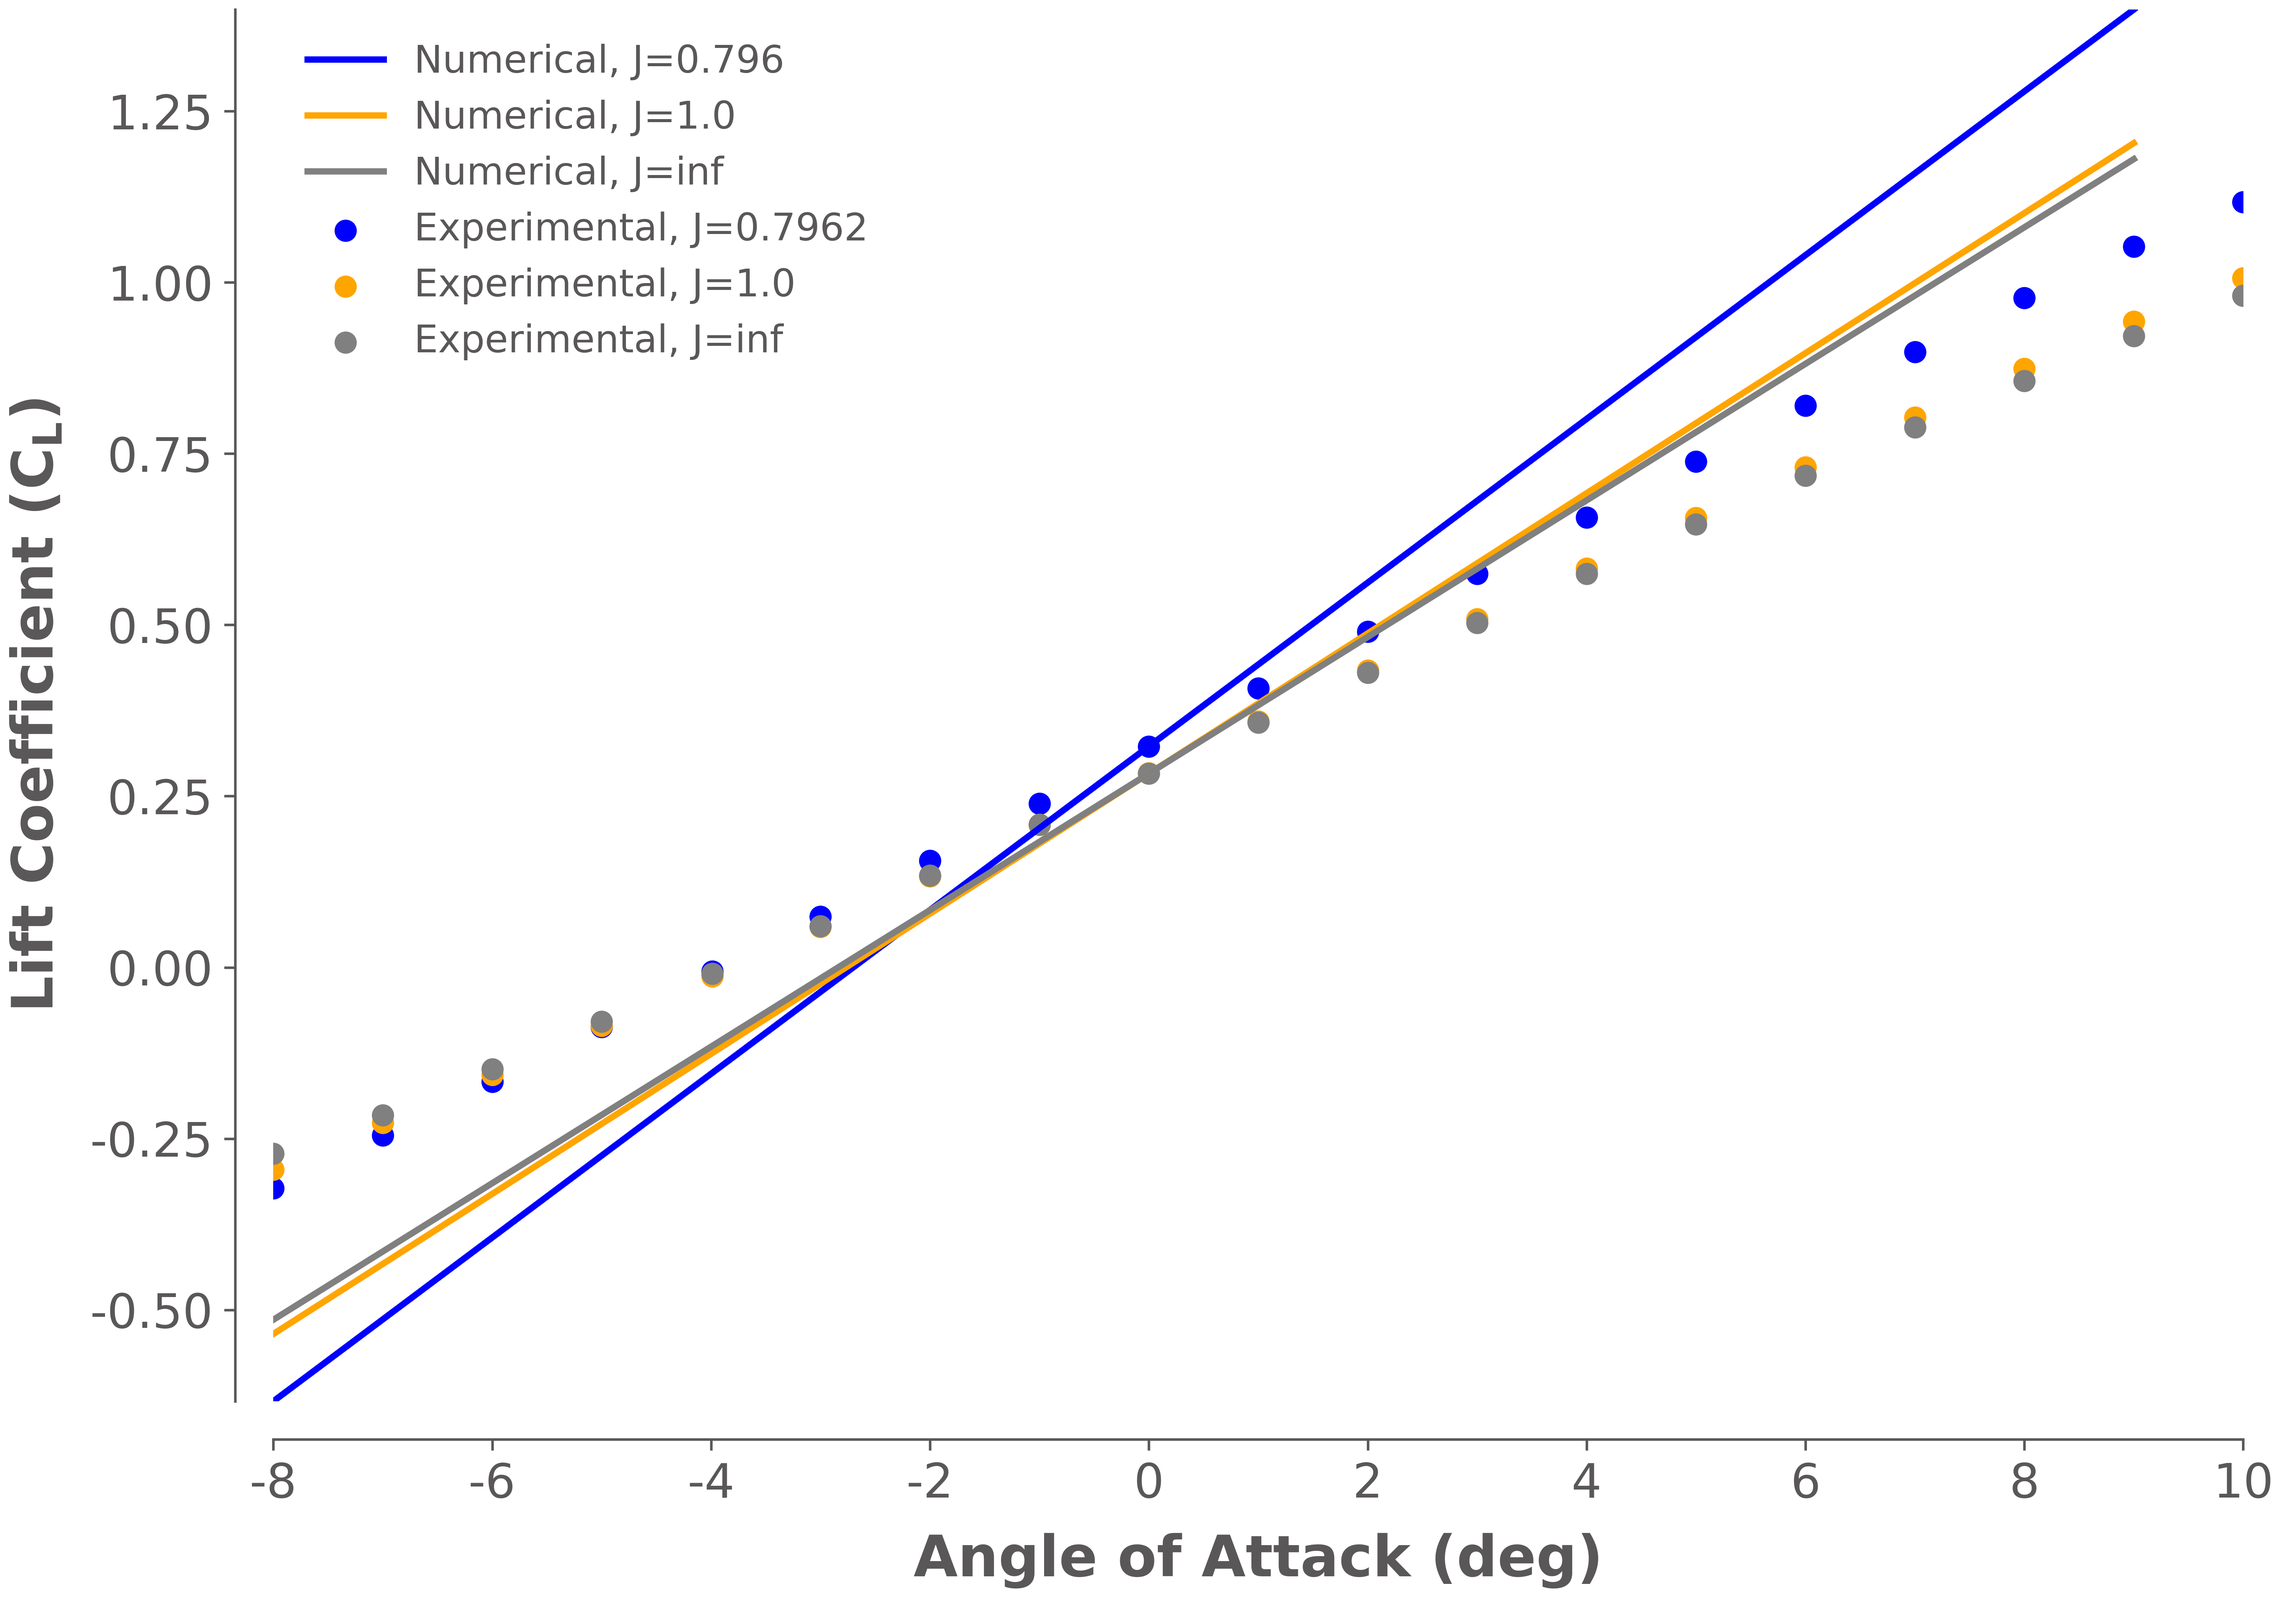
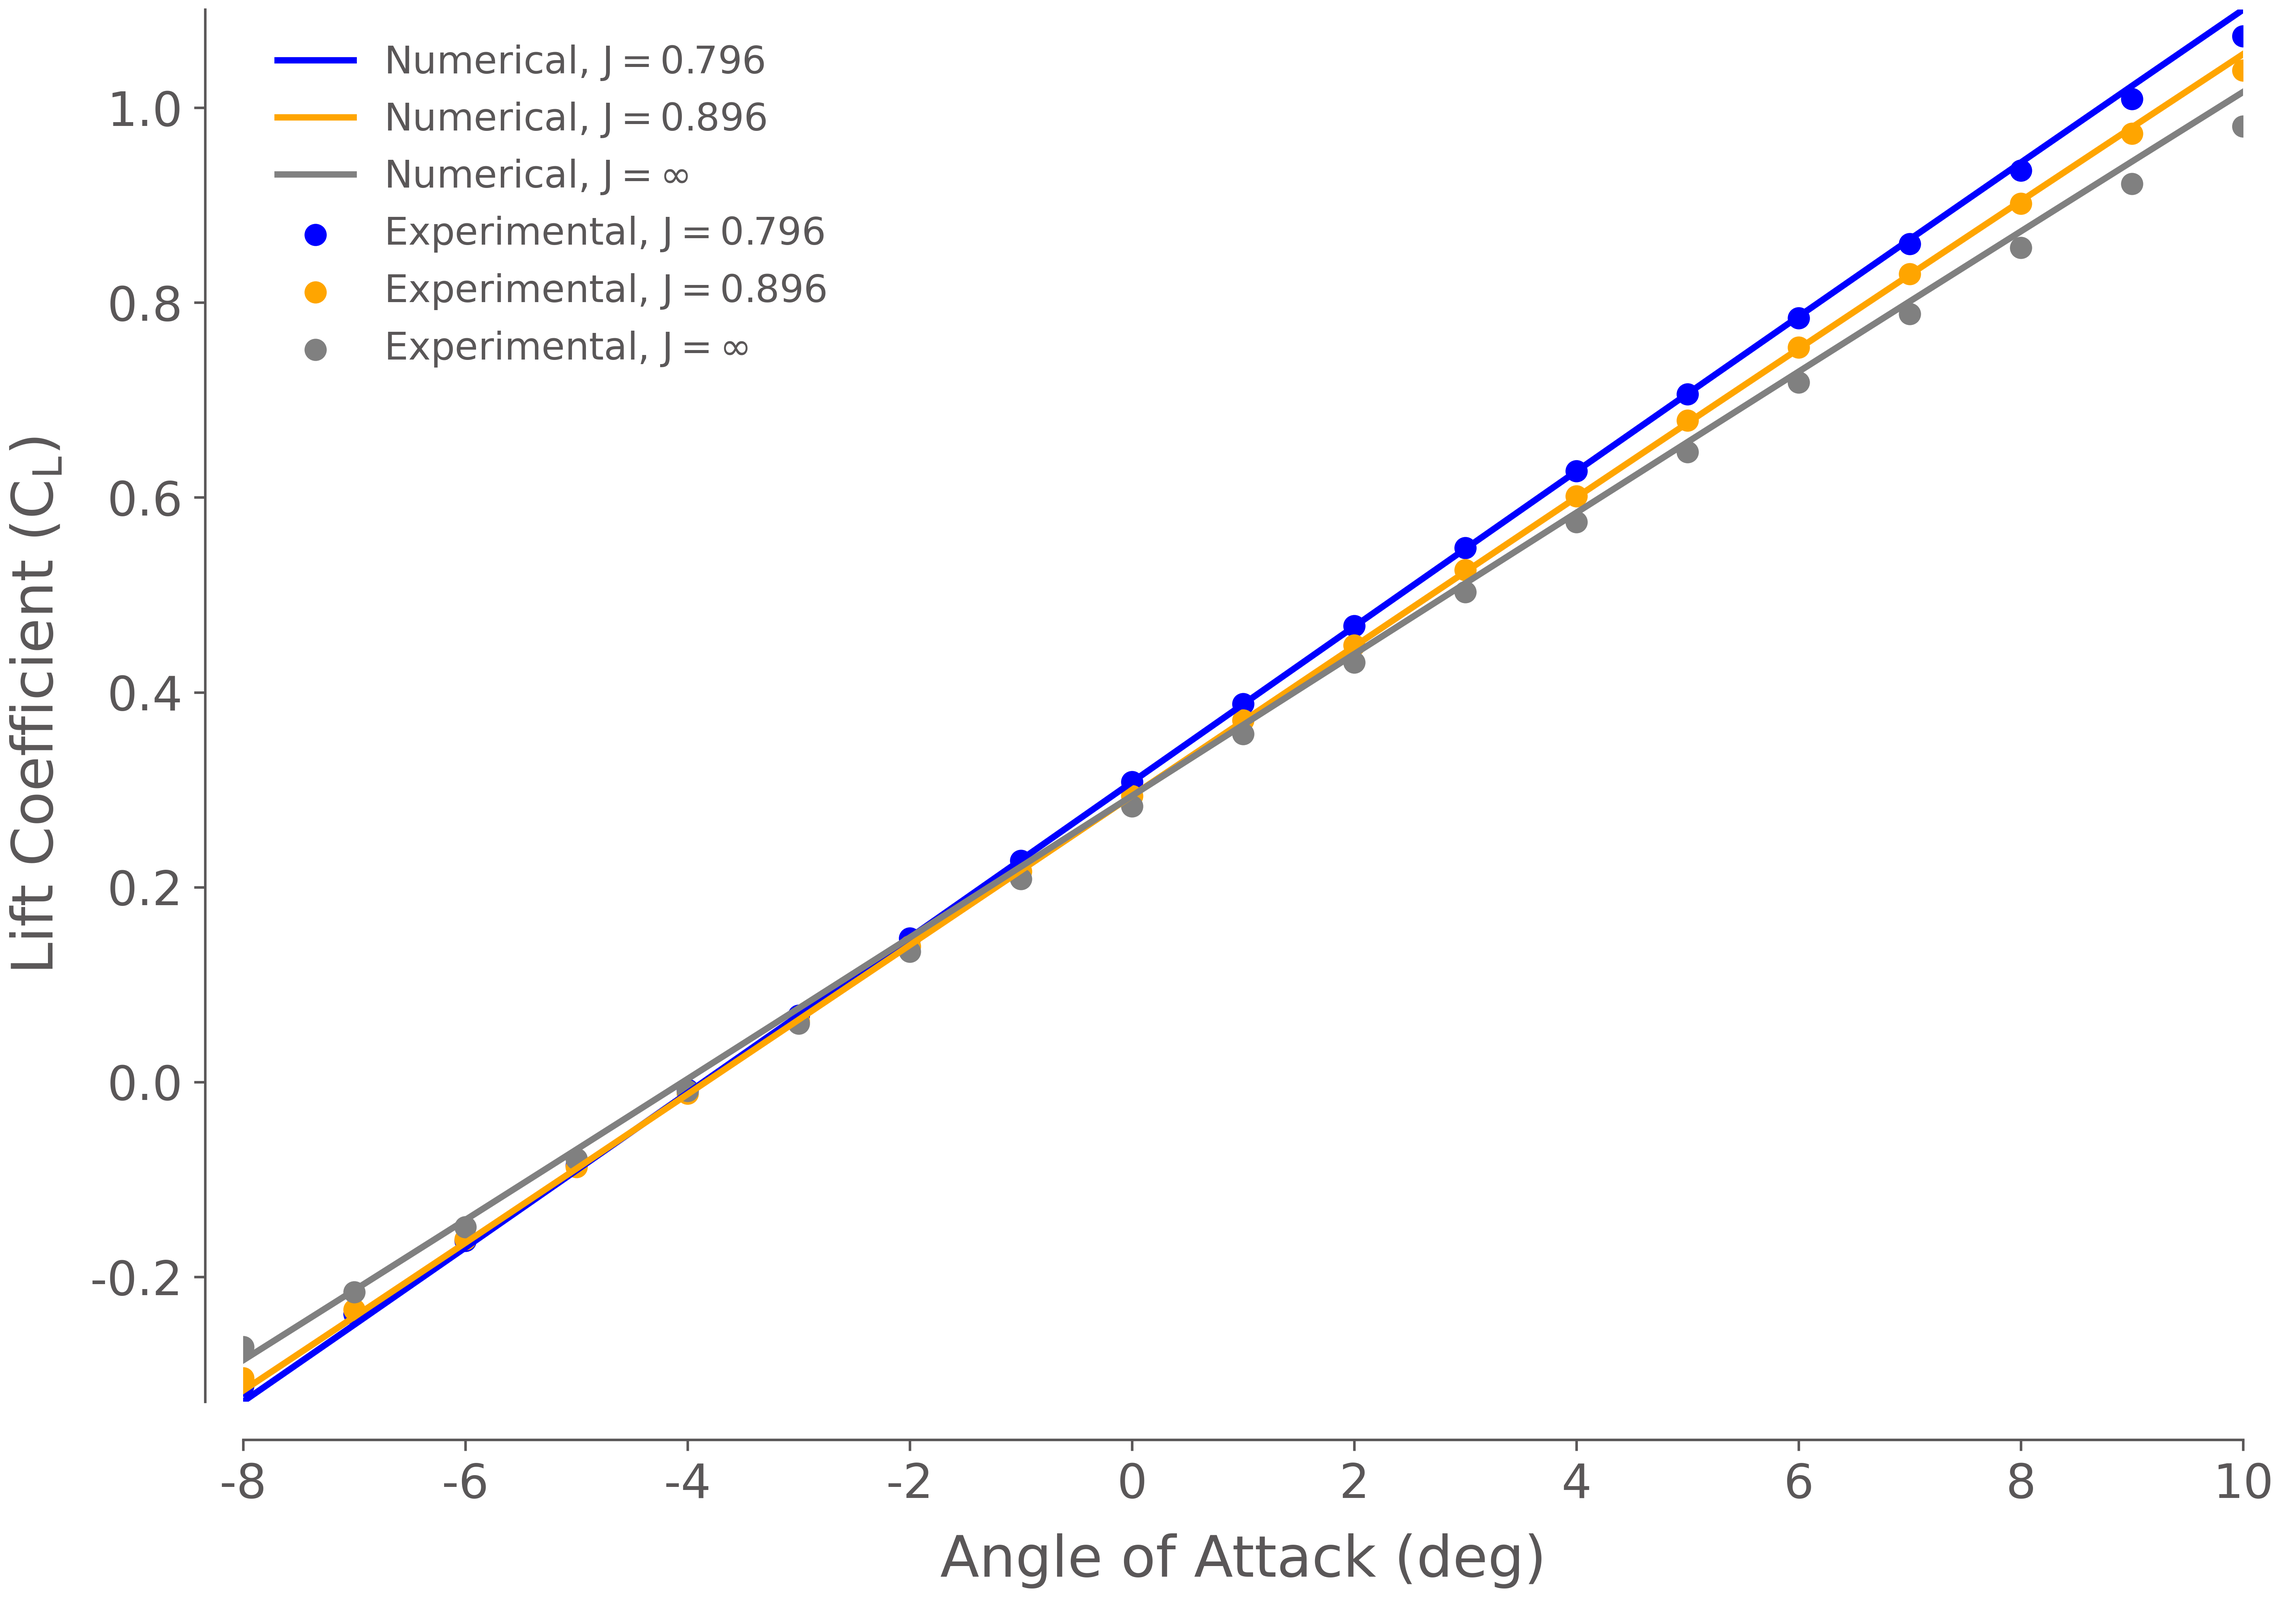
VALIDATION WORKING

diff --git a/examples/analysis/PROWIM_wingprop_validation.py b/examples/analysis/PROWIM_wingprop_validation.py
@@ -25,7 +25,7 @@ with open(os.path.join(BASE_DIR, 'data', 'PROWIM.json'), 'r') as file:
 prop_radius = 0.1185
 ref_point = data['ref_point']
 span = data['span']
-twist = np.subtract(data['twist'], 1.2)
+twist = data['twist']
 chord = data['chord']
 
 alpha_0 = data['alpha_0']
@@ -40,17 +40,10 @@ wingspan = 0.73*2.*0.952
 spanwise_discretisation_propeller_BEM = len(span)
 
 
-parameters = ParamInfo(vinf=40.,
-                       wing_aoa=0.,
-                       mach_number=0.2,
-                       reynolds_number=640_000,
-                       speed_of_sound=333.4,
-                       air_density=1.2087)
-
 prop1 = PropInfo(label='Prop1',
                  prop_location=-0.332,
                  nr_blades=4,
-                 rot_rate=(parameters.vinf/(0.796*2.*prop_radius)) * 2.*np.pi, # in rad/s,
+                 rot_rate=300.,
                  chord=np.array(chord, order='F'),
                  twist=np.array(twist, order='F'),
                  span=np.array(span, order='F'),
@@ -66,7 +59,7 @@ prop1 = PropInfo(label='Prop1',
 prop2 = PropInfo(label='Prop1',
                  prop_location=0.332,
                  nr_blades=4,
-                 rot_rate=(parameters.vinf/(0.796*2.*prop_radius)) * 2.*np.pi, # in rad/s,
+                 rot_rate=300.,
                  chord=np.array(chord, order='F'),
                  twist=np.array(twist, order='F'),
                  span=np.array(span, order='F'),
@@ -78,6 +71,13 @@ prop2 = PropInfo(label='Prop1',
                            for index in range(spanwise_discretisation_propeller_BEM+1)],
                  ref_point=ref_point
                  )
+
+parameters = ParamInfo(vinf=40.,
+                       wing_aoa=0.,
+                       mach_number=0.2,
+                       reynolds_number=640_000,
+                       speed_of_sound=333.4,
+                       air_density=1.2087)
 
 
 wing = WingInfo(label='PROWIM_wing',
@@ -102,7 +102,7 @@ wingpropinfo = WingPropInfo(spanwise_discretisation_wing=60,
                             )
 
 
-class PROWIMValidation(om.Group):
+class PROWIMAnalysis(om.Group):
     def initialize(self):
         self.options.declare('WingPropInfo', default=WingPropInfo)
 
@@ -118,9 +118,9 @@ class PROWIMValidation(om.Group):
 if __name__ == '__main__':
     # === Generate numerical data ===
     CL_numerical = []
-    J = np.array([0.796, 1.0, float('nan')])
+    J = np.array([0.796, 0.8960, float('nan')])
     rot_rate = (wingpropinfo.parameters.vinf/(J*2.*prop_radius)) * 2.*np.pi # in rad/s
-    angles = np.arange(-8, 10+1, 1)
+    angles = np.arange(-8, 11, 1)
     
     prob = om.Problem()
 
@@ -136,7 +136,12 @@ if __name__ == '__main__':
         elif J[index_rotational]==0.796:
             wingpropinfo.NO_CORRECTION=False
             wingpropinfo.NO_PROPELLER=False
-            wingpropinfo.wing.CL0 = 0.3227
+            wingpropinfo.wing.CL0 = 0.3079
+            
+        elif J[index_rotational]==0.8960:
+            wingpropinfo.NO_CORRECTION=False
+            wingpropinfo.NO_PROPELLER=False
+            wingpropinfo.wing.CL0 = 0.2938
             
         else:
             wingpropinfo.NO_CORRECTION=False
@@ -147,7 +152,7 @@ if __name__ == '__main__':
             print(f'Angle of attack: {angle: ^10}')
             wingpropinfo.parameters.wing_aoa = angle
             
-            prob.model = PROWIMValidation(WingPropInfo=wingpropinfo)
+            prob.model = PROWIMAnalysis(WingPropInfo=wingpropinfo)
             prob.setup()
             prob.run_model()
 
@@ -169,7 +174,7 @@ if __name__ == '__main__':
     J_inf = validation_data['J'][index1+1]
     
     # Validation data for J=1
-    n=1
+    n=2
     index1 = n*19
     index2 = (n+1)*19
     aoa = validation_data['AoA'][index1:index2]
@@ -178,7 +183,7 @@ if __name__ == '__main__':
     J_1 = validation_data['J'][index1+1]
     
     # Validation data for J=0.796
-    n=4
+    n=3
     index1 = n*19
     index2 = (n+1)*19
     aoa = validation_data['AoA'][index1:index2]
@@ -190,17 +195,17 @@ if __name__ == '__main__':
     plt.style.use(niceplots.get_style())
     _, ax = plt.subplots(figsize=(10, 7))
     
-    ax.plot(angles, CL_numerical[0], label='Numerical, J=0.796', color='b')
-    ax.plot(angles, CL_numerical[1], label=f'Numerical, J=1.0', color='orange')
-    ax.plot(angles, CL_numerical[2], label=f'Numerical, J=inf', color='grey')
+    ax.plot(angles, CL_numerical[0], label=r'Numerical, $J=0.796$', color='b')
+    ax.plot(angles, CL_numerical[1], label=r'Numerical, $J=0.896$', color='orange')
+    ax.plot(angles, CL_numerical[2], label=r'Numerical, $J=\infty$', color='grey')
 
-    ax.scatter(aoa, CL_J0796, label=f'Experimental, J=0.7962', color='b')
-    ax.scatter(aoa, CL_J1, label=f'Experimental, J=1.0', color='orange')
-    ax.scatter(aoa, CL_Jinf, label=f'Experimental, J=inf', color='grey')
+    ax.scatter(aoa, CL_J0796, label=r'Experimental, $J=0.796$', color='b')
+    ax.scatter(aoa, CL_J1, label=r'Experimental, $J=0.896$', color='orange')
+    ax.scatter(aoa, CL_Jinf, label=r'Experimental, $J=\infty$', color='grey')
     
     
-    ax.set_xlabel("Angle of Attack (deg)")
-    ax.set_ylabel(r"Lift Coefficient ($C_L$)")
+    ax.set_xlabel("Angle of Attack (deg)", fontweight='light')
+    ax.set_ylabel(r"Lift Coefficient ($C_L$)", fontweight='light')
     ax.legend(fontsize='12')
 
     niceplots.adjust_spines(ax, outward=True)

diff --git a/src/integration/coupled_groups_analysis.py b/src/integration/coupled_groups_analysis.py
@@ -24,19 +24,17 @@ class WingSlipstreamPropAnalysis(om.Group):
         wingpropinfo = self.options["WingPropInfo"]
 
         # === Components ===
-            # Inputs
         self.add_subsystem('PARAMETERS', subsys=Parameters(
             WingPropInfo=wingpropinfo))
 
         self.add_subsystem('DESIGNVARIABLES', subsys=DesignVariables(
             WingPropInfo=wingpropinfo))
 
-            # Modules
         for propeller_nr in range(wingpropinfo.nr_props):
             self.add_subsystem(f'HELIX_{propeller_nr}',
                                subsys=PropellerModel(ParamInfo=wingpropinfo.parameters,
                                                      PropInfo=wingpropinfo.propeller[propeller_nr]))
-        
+
         self.add_subsystem('RETHORST',
                            subsys=SlipStreamModel(WingPropInfo=wingpropinfo))
 
@@ -46,10 +44,6 @@ class WingSlipstreamPropAnalysis(om.Group):
         self.add_subsystem('HELIX_COUPLED', 
                            subsys=PropellerCoupled(WingPropInfo=wingpropinfo))
 
-            # Outputs
-        self.add_subsystem('CONSTRAINTS', 
-                           subsys=ConstraintsThrustDrag())
-        
         # === Explicit connections ===
         # PARAMS to HELIX
         for index, _ in enumerate(wingpropinfo.propeller):
@@ -103,26 +97,16 @@ class WingSlipstreamPropAnalysis(om.Group):
                          f"HELIX_{index}.om_helix.geodef_parametric_0_rot_rate")
 
         # DVs to OPENAEROSTRUCT
-        self.connect('DESIGNVARIABLES.twist',
-                     'OPENAEROSTRUCT.wing.twist_cp')
-        self.connect('DESIGNVARIABLES.chord',
-                     'OPENAEROSTRUCT.wing.geometry.chord_cp')
+        # Be careful with connecting variabes such as chord_cp/twist_cp, these are coefficients, not the actual twist
         self.connect('DESIGNVARIABLES.span',
                      'OPENAEROSTRUCT.wing.geometry.span')
 
         # HELIX to RETHORST
-        for index in range(wingpropinfo.nr_props):
+        for index, _ in enumerate(wingpropinfo.propeller):
             self.connect(f"HELIX_{index}.om_helix.rotorcomp_0_radii",
                         f"RETHORST.interpolation.propeller_radii_BEM_rotor{index}")
             self.connect(f"HELIX_{index}.om_helix.rotorcomp_0_velocity_distribution",
                         f"RETHORST.interpolation.propeller_velocity_BEM_rotor{index}")
-            
-        # HELIX to HELIX_COUPLED
-        for index in range(wingpropinfo.nr_props):
-            self.connect(f"HELIX_{index}.om_helix.rotorcomp_0_thrust",
-                        f"HELIX_COUPLED.thrust_prop_{index}")
-            self.connect(f"HELIX_{index}.om_helix.rotorcomp_0_power",
-                        f"HELIX_COUPLED.power_prop_{index}")
 
         # RETHORST to OPENAEROSTRUCT
         self.connect("RETHORST.velocity_distribution",
@@ -130,13 +114,11 @@ class WingSlipstreamPropAnalysis(om.Group):
         self.connect("RETHORST.correction_matrix",
                      "OPENAEROSTRUCT.AS_point_0.coupled.aero_states.rethorst_correction")
         
-        # OPENAEROSTRUCT to CONSTRAINTS
-        self.connect('OPENAEROSTRUCT.AS_point_0.total_perf.D',
-                     'CONSTRAINTS.drag_total')
-        
-        # HELIX_COUPLED to CONSTRAINTS
-        self.connect('HELIX_COUPLED.thrust_total',
-                     'CONSTRAINTS.thrust_total')
+        for index, _ in enumerate(wingpropinfo.propeller):
+            self.connect(f"HELIX_{index}.om_helix.rotorcomp_0_thrust",
+                        f"HELIX_COUPLED.thrust_prop_{index}")
+            self.connect(f"HELIX_{index}.om_helix.rotorcomp_0_power",
+                        f"HELIX_COUPLED.power_prop_{index}")      
 
 
 class WingAnalysis(om.Group):

diff --git a/src/models/wing_model.py b/src/models/wing_model.py
@@ -33,9 +33,9 @@ class WingModel(om.Group):
                         "symmetry": False,  # if true, model one half of wing reflected across the plane y = 0
                         "S_ref_type": "wetted",  # how we compute the wing area,        # can be 'wetted' or 'projected'
                         "fem_model_type": "tube",
-                        "thickness_cp": thickness_cp, # thickness of wing material?
+                        "thickness_cp": thickness_cp, # thickness of material
                         "twist_cp": twist_cp,
-                        "chord_cp": np.ones(len(chord_cp)), # np.ones(len(chord_cp)), #np.ones(len(chord_cp)), # chord_cp,#
+                        "chord_cp": np.ones(len(chord_cp)),
                         "mesh": mesh,
                         "span": winginfo.span,
                         "CL0": winginfo.CL0,  # CL of the surface at alpha=0
